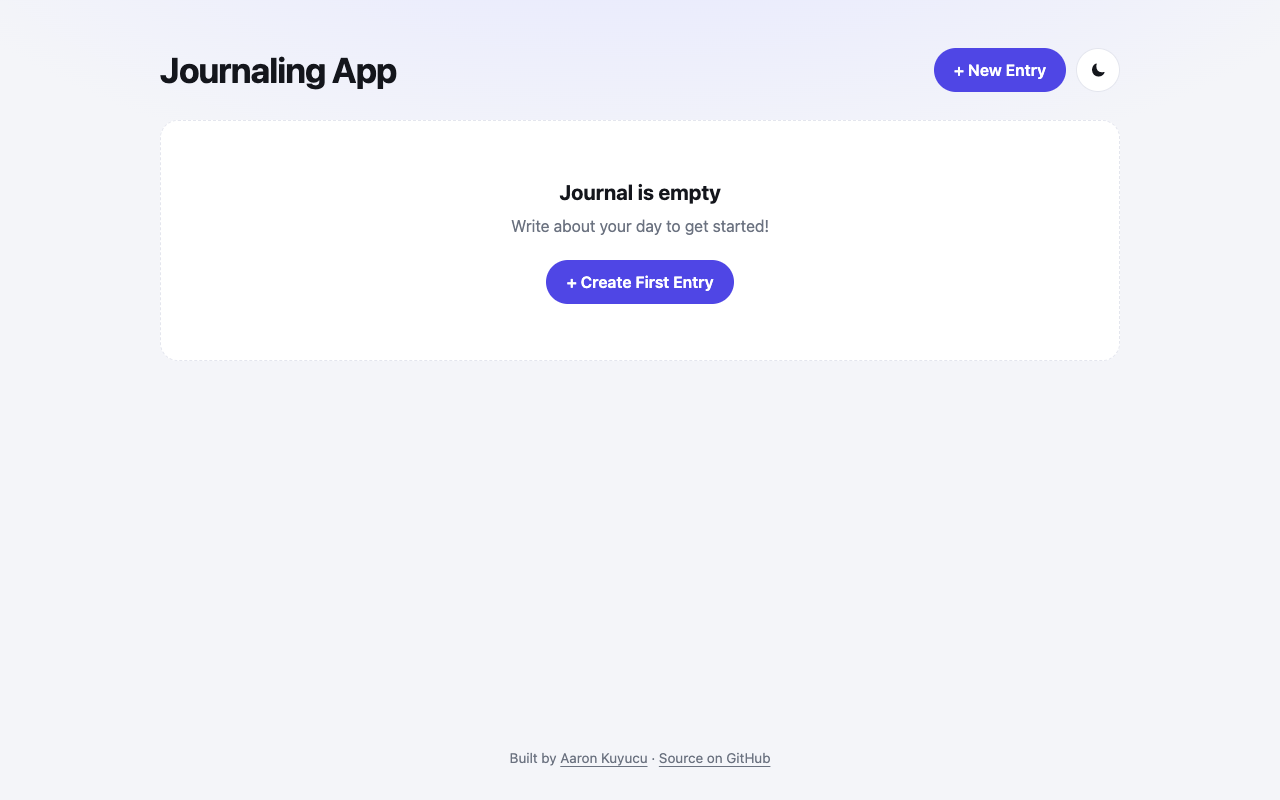
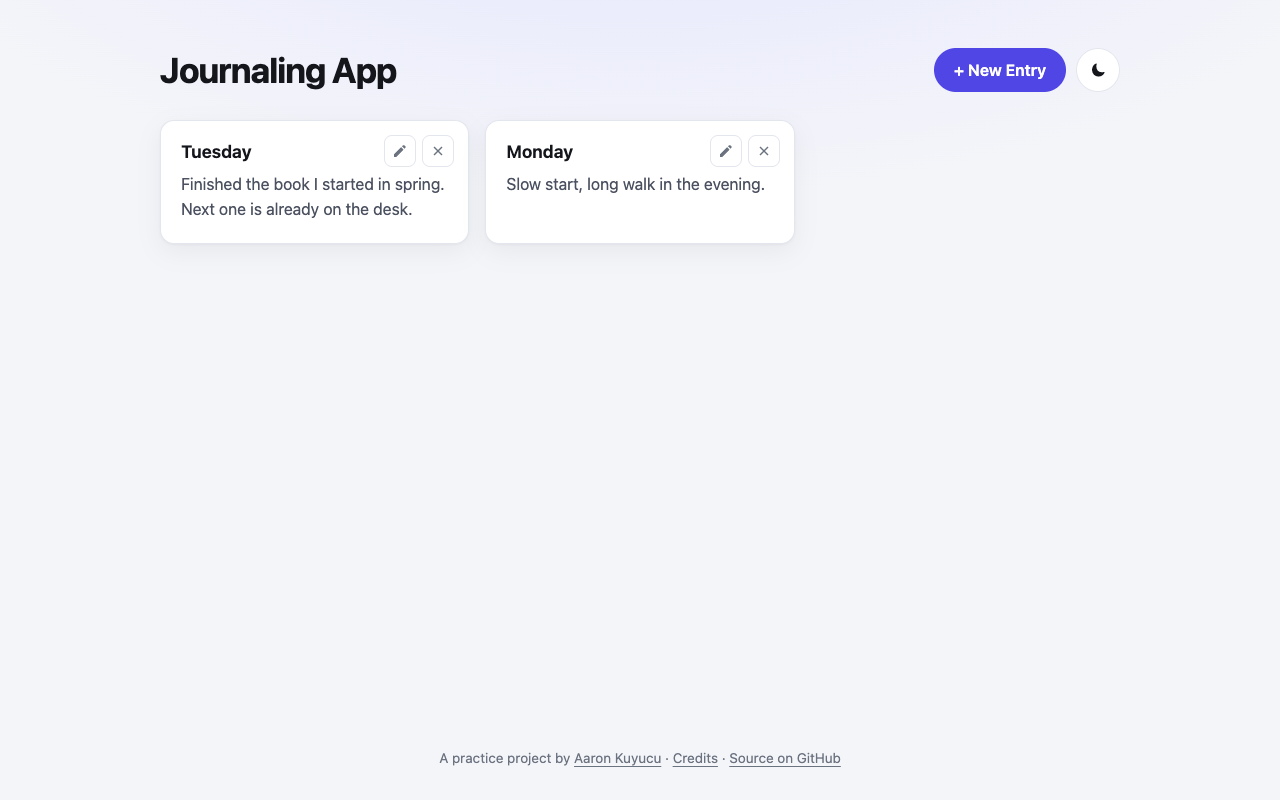
docs: describe the current state in the README
Update the feature list and screenshot, document the tests and where
the data lives, and list what changed on top of the tutorial and what
is still missing.

Refs #4

diff --git a/README.md b/README.md
@@ -2,7 +2,7 @@
 
 A journal in the browser: write, edit and delete entries, stored locally, with a light and dark theme.
 
-![Screenshot of Journaling](docs/screenshot.png)
+![Screenshot of Journaling with two entries](docs/screenshot.png)
 
 ## Features
 
@@ -10,17 +10,19 @@ A journal in the browser: write, edit and delete entries, stored locally, with a
 - Entries persist in `localStorage`
 - Dark mode toggle that remembers the choice
 - Empty state with a call to action
+- Edit and delete are always visible and reachable with the keyboard
 
 ## Tech
 
-- HTML (Dialog API), CSS custom properties, vanilla JavaScript
+- HTML (Dialog API, `<template>`), CSS custom properties, vanilla JavaScript
 - `localStorage` for persistence
+- No build step, no dependencies
 
 ## How to run
 
 Open the live version: **[aaronkuy.github.io/journaling](https://aaronkuy.github.io/journaling/)**
 
-Or run it locally. There is no build step and no dependency:
+Or run it locally:
 
 ```bash
 git clone https://github.com/aaronkuy/journaling.git
@@ -28,15 +30,33 @@ cd journaling
 open index.html        # macOS; on Linux use xdg-open, on Windows start
 ```
 
+Run the tests (Node.js 20 or newer, nothing to install):
+
+```bash
+node --test
+```
+
+## Where the data lives
+
+Entries are saved only in this browser's `localStorage`. They are not sent anywhere, and clearing the site data deletes them. The live version shares its origin (`aaronkuy.github.io`) with other projects, and every page on an origin can read the same `localStorage`, so do not keep anything confidential in it.
+
 ## Credits
 
-This project started from a tutorial for a notes app built with HTML, CSS and JavaScript on top of `localStorage`. The program flow of `index.js` (one array of entries, one dialog for both creating and editing, a theme toggle) follows that tutorial, with "notes" renamed to "entries". The stylesheet was replaced with a new design in October 2026.
+This project started from a tutorial for a notes app built with HTML, CSS and JavaScript on top of `localStorage`. The program flow (one array of entries, one dialog for both creating and editing, a theme toggle) follows that tutorial, with "notes" renamed to "entries". The stylesheet was replaced with a new design in October 2026.
 
-## What I'd do next
+Changes on top of the tutorial, each visible in the commit history:
 
-- Escape user text before rendering it (or build cards with DOM methods)
-- Dates on entries and a search field
-- Export and import as JSON
+- Entries are built from a `<template>` and filled through `textContent`. The tutorial put the text into `innerHTML`, which let a title such as `<img src=x onerror=…>` run as script.
+- One delegated click listener replaces the inline `onclick` attributes, which allows a Content-Security-Policy (`default-src 'self'; img-src 'self' data:`).
+- Reading and writing `localStorage` is guarded. Broken stored data no longer stops the page, and a failed write keeps the dialog open with a message instead of losing the text.
+- The list logic lives in `store.js` without DOM access and has tests in `test/`.
+
+## Not done yet
+
+- Deleting has no confirmation and no undo
+- Entries have no date
+- Closing the dialog discards a draft without asking
+- No search, no export or import
 
 ## License
 
